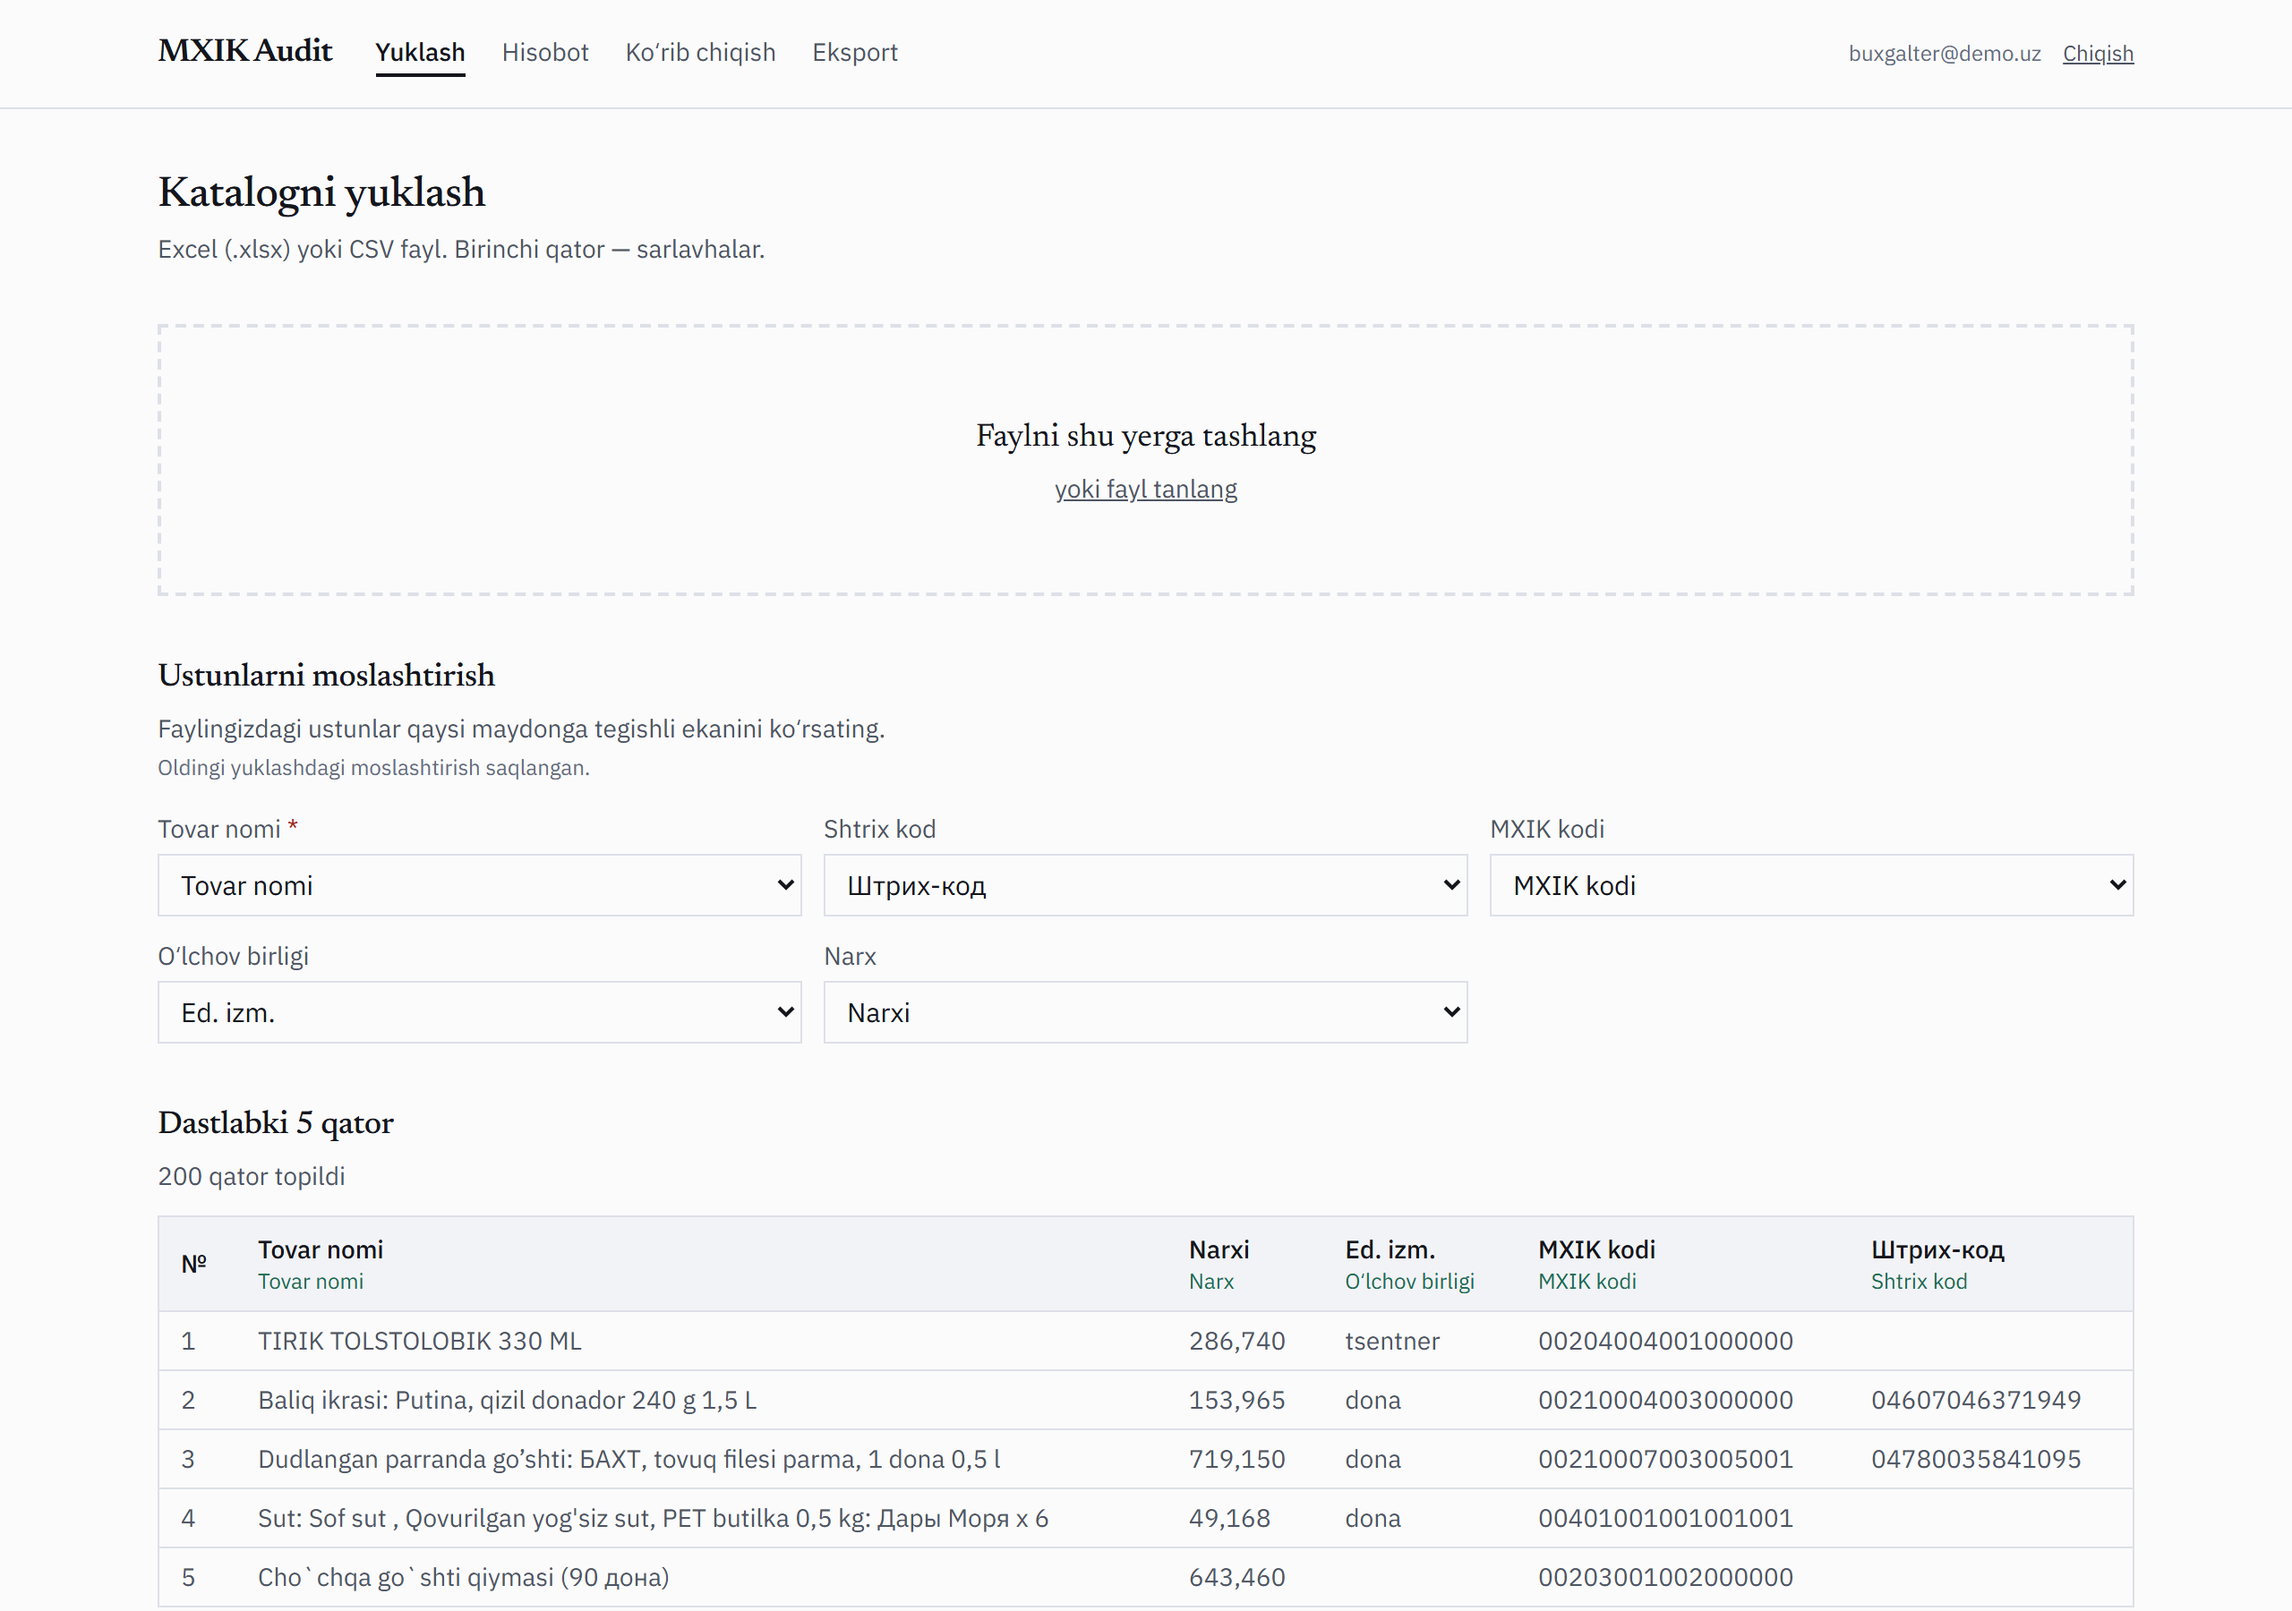
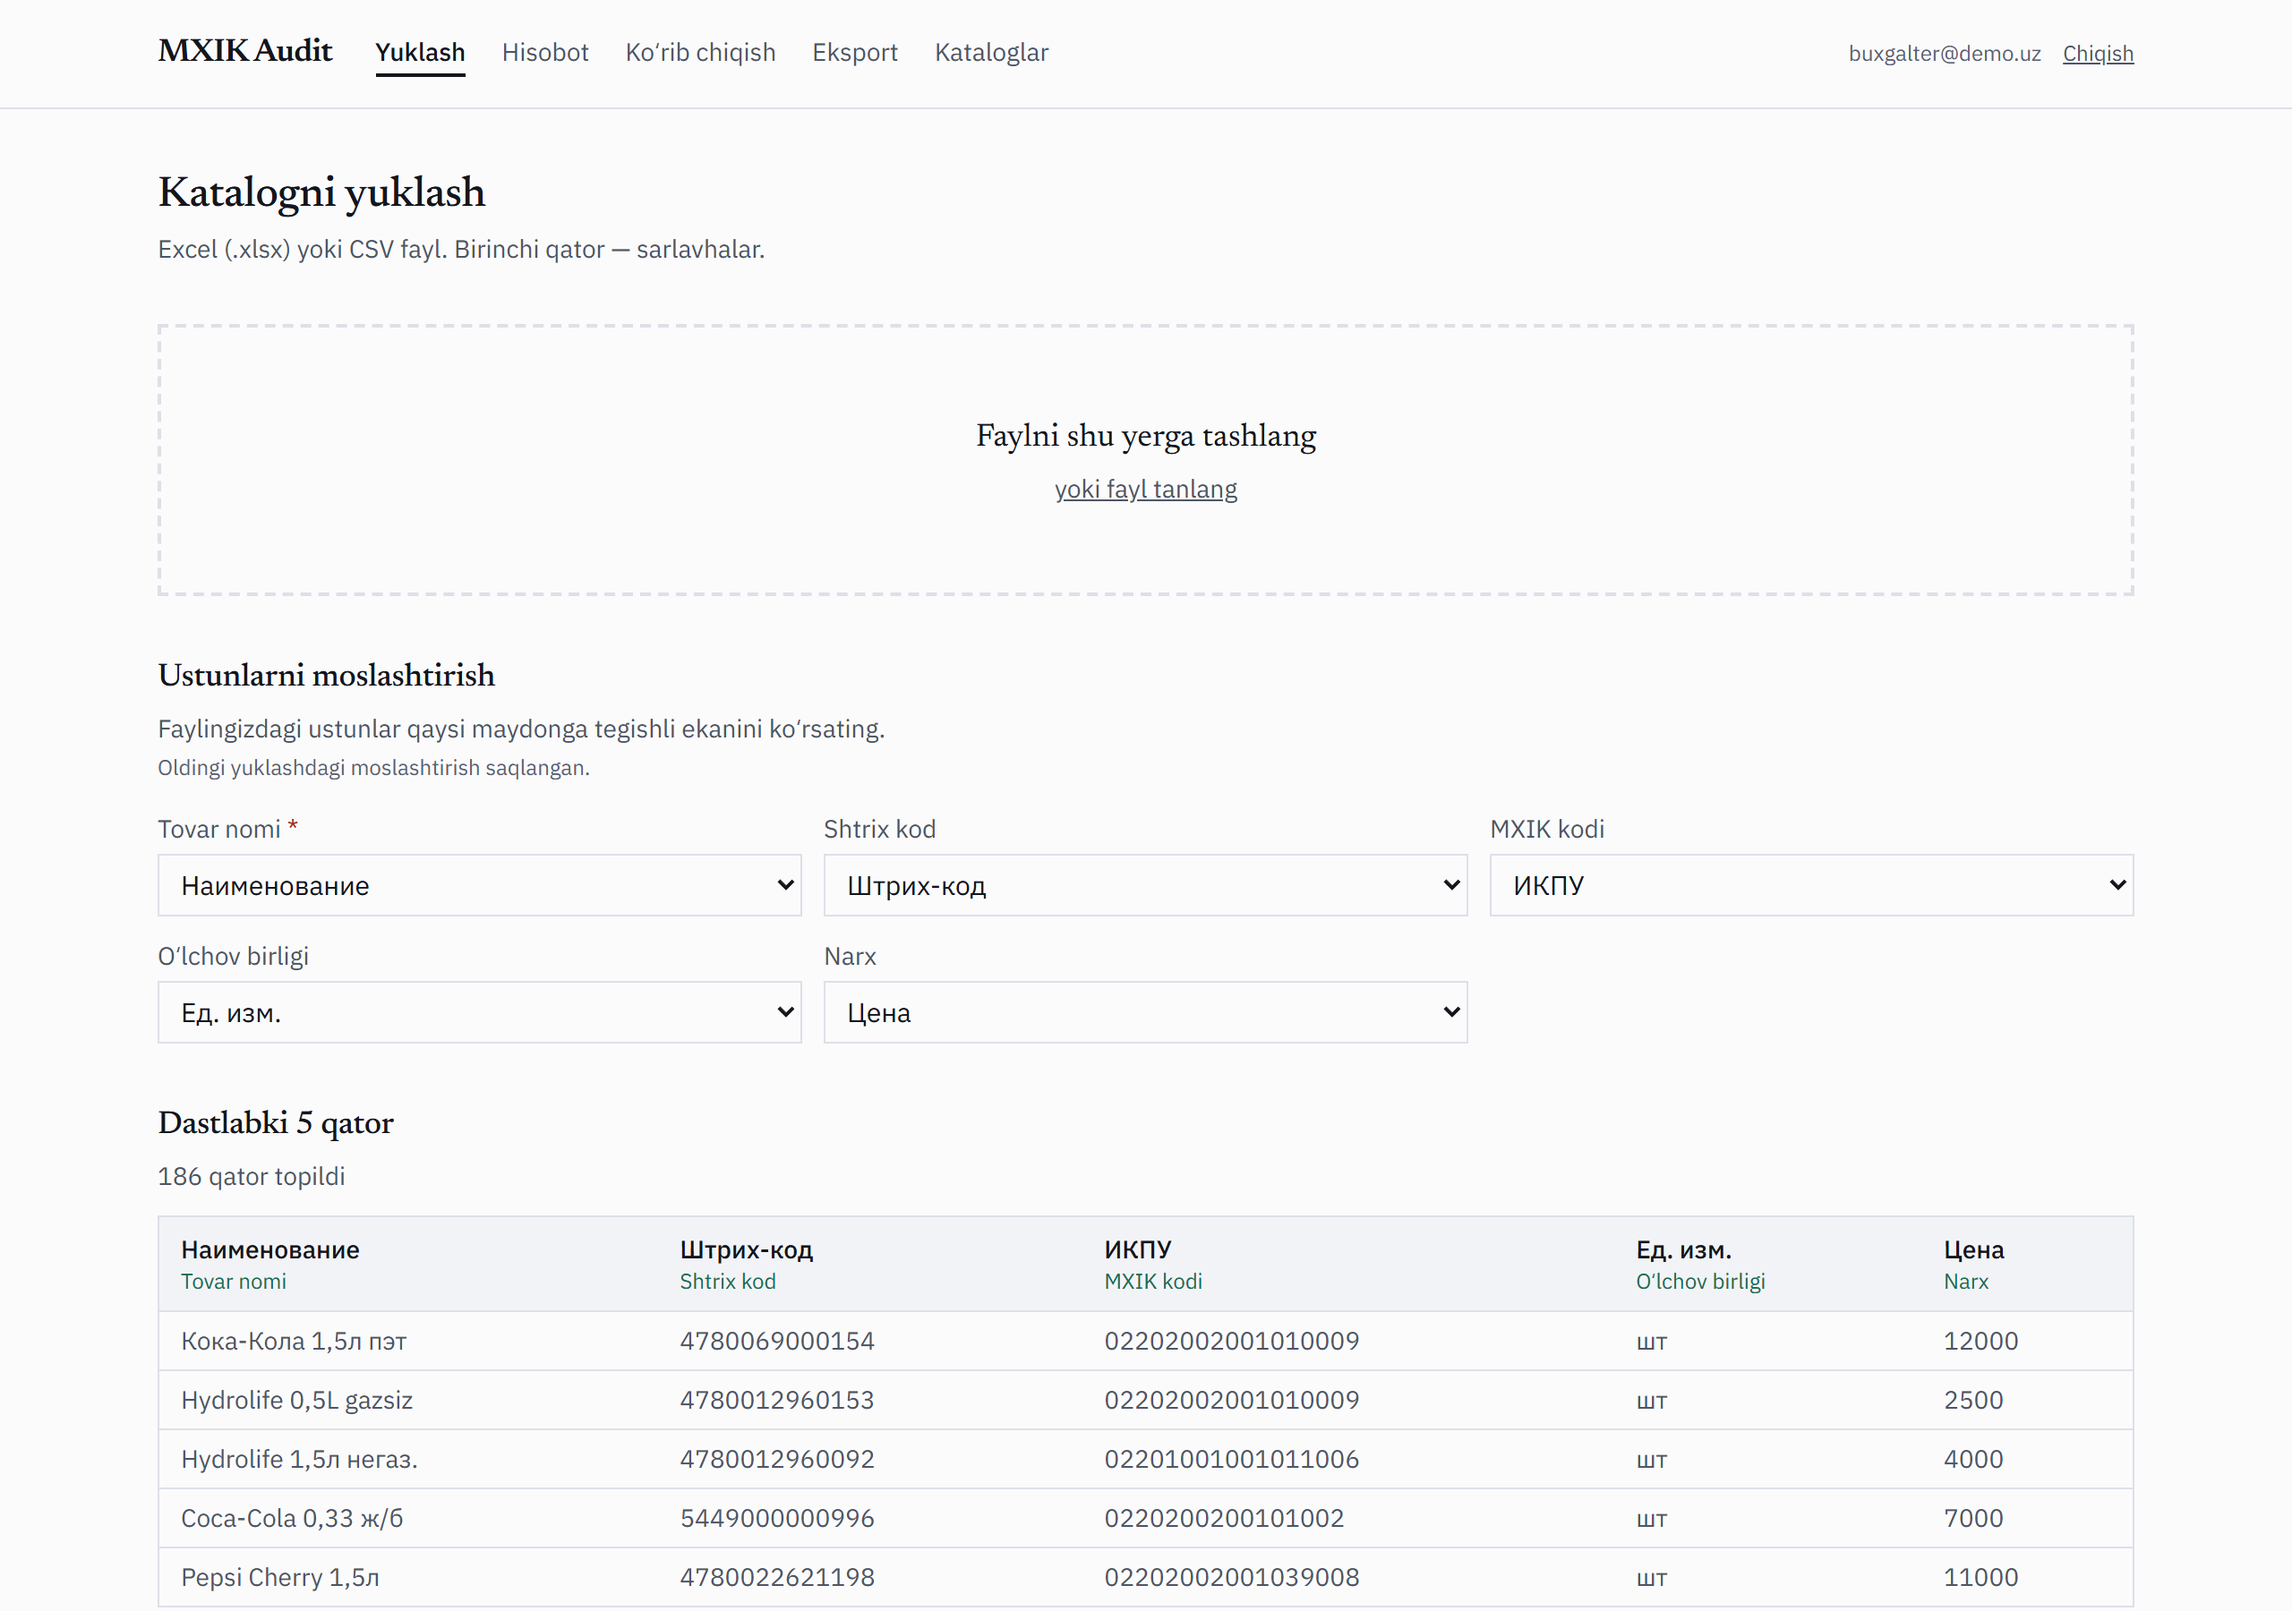
Screenshots: capture from a demo session, desktop and phone widths
- npm run capture now takes report, review, export and catalogue shots from
  a fresh /demo session, so nothing real is touched, at 1280 px and 375 px.
  The upload shot still signs in to the seeded org, and cleanup deletes
  only the catalogue that run created there (it used to delete the newest
  catalogues globally, which on a shared database could hit someone else's).
- CAPTURE_CHANNEL=msedge|chrome drives an installed browser instead of
  downloading Playwright's Chromium.
- public/screenshots refreshed from the current UI (demo catalogue).

diff --git a/scripts/capture-screenshots.ts b/scripts/capture-screenshots.ts
@@ -1,20 +1,20 @@
-// Captures real screenshots of the running app.
+// Captures real screenshots of the running app, at desktop and phone widths.
 //
-// These are no longer used on the landing page — that page now explains the
-// product with its own diagrams rather than pictures of the UI. They remain for
-// documentation, demos and design review, and the rule that produced them still
-// holds: this signs in to the actual dev server and captures the actual screens.
-// It never renders a mockup.
+// These are not used on the landing page — that page explains the product
+// with its own diagrams. They are for documentation, demos and design review,
+// and the rule that produced them still holds: this drives the actual app and
+// captures the actual screens. It never renders a mockup.
 //
-// Order matters. The upload shot has to run last, because previewing a file
-// creates a fresh catalogue row and /report and /review both read the newest
-// catalogue — capturing them afterwards would show an empty report. The extra
-// catalogue is deleted at the end.
+// Report, review, catalogue list and export come from a fresh /demo session,
+// so nothing real is touched (needs `npm run seed:demo`). The upload screen is
+// disabled in demo mode, so that one shot signs in to the seeded org
+// (`npm run seed`) and afterwards deletes only the catalogue it created there.
 //
-// Run: npm run dev (elsewhere), then npm run capture
+// Run: the app running elsewhere (npm run dev, or a production build), then
+//      npm run capture       (CAPTURE_BASE_URL defaults to http://localhost:3100)
 import '../src/lib/load-env.js';
 import { mkdir } from 'node:fs/promises';
-import { chromium, type Page } from 'playwright';
+import { chromium, type Browser, type Page } from 'playwright';
 import { db } from '../src/lib/db.js';
 
 const BASE = process.env['CAPTURE_BASE_URL'] ?? 'http://localhost:3100';
@@ -23,79 +23,94 @@ const PASSWORD = process.env['SEED_PASSWORD'] ?? 'demo12345';
 const OUT = 'public/screenshots';
 const SAMPLE = 'public/demo/namuna-katalog.xlsx';
 
-const WIDTH = 1280;
-
 type Shot = {
   file: string;
   path: string;
+  width: number;
   /** Viewport height, chosen per screen so there is no dead whitespace. */
   height: number;
   clipTo?: string;
-  prepare?: (page: Page) => Promise<void>;
 };
 
-const SHOTS: Shot[] = [
-  { file: 'report-headline.png', path: '/report', height: 700, clipTo: 'section' },
-  { file: 'step-2-report.png', path: '/report', height: 760 },
-  { file: 'step-3-review.png', path: '/review', height: 820 },
-  {
-    file: 'step-1-upload.png',
-    path: '/upload',
-    height: 900,
-    // Upload the sample so the shot shows column mapping and the row preview,
-    // which is the part of this screen worth showing.
-    prepare: async (page) => {
-      await page.setInputFiles('input[type="file"]', SAMPLE);
-      await page.waitForSelector('#map-name', { timeout: 60_000 });
-      await page.waitForTimeout(900);
-    },
-  },
+const DESKTOP = 1280;
+const PHONE = 375;
+
+const DEMO_SHOTS: Shot[] = [
+  { file: 'report-headline.png', path: '/report', width: DESKTOP, height: 700, clipTo: 'section' },
+  { file: 'step-2-report.png', path: '/report', width: DESKTOP, height: 760 },
+  { file: 'step-3-review.png', path: '/review', width: DESKTOP, height: 820 },
+  { file: 'step-4-export.png', path: '/export', width: DESKTOP, height: 640 },
+  { file: 'catalogs.png', path: '/catalogs', width: DESKTOP, height: 520 },
+  { file: 'report-mobile.png', path: '/report', width: PHONE, height: 812 },
+  { file: 'review-mobile.png', path: '/review', width: PHONE, height: 812 },
 ];
 
-const before = await db.catalog.count();
-
-const browser = await chromium.launch();
-const context = await browser.newContext({
-  viewport: { width: WIDTH, height: 900 },
-  deviceScaleFactor: 2,
-});
-const page = await context.newPage();
-
-console.log(`signing in at ${BASE} as ${EMAIL}`);
-await page.goto(`${BASE}/sign-in`, { waitUntil: 'networkidle' });
-await page.fill('input[name="email"]', EMAIL);
-await page.fill('input[name="password"]', PASSWORD);
-await page.click('button[type="submit"]');
-await page.waitForURL(/\/report/, { timeout: 60_000 });
-console.log('signed in');
-
-await mkdir(OUT, { recursive: true });
-
-for (const shot of SHOTS) {
-  await page.setViewportSize({ width: WIDTH, height: shot.height });
+async function capture(page: Page, shot: Shot): Promise<void> {
+  await page.setViewportSize({ width: shot.width, height: shot.height });
   await page.goto(`${BASE}${shot.path}`, { waitUntil: 'networkidle' });
-  // Next compiles a route on first hit; let slow ones settle.
+  // Next compiles a route on first hit in dev; let slow ones settle.
   await page.waitForTimeout(1000);
-  if (shot.prepare) await shot.prepare(page);
-
   const target = shot.clipTo ? page.locator(shot.clipTo).first() : page;
   await target.screenshot({ path: `${OUT}/${shot.file}` });
-  console.log(`  ${shot.file.padEnd(22)} ${shot.path}  ${WIDTH}x${shot.height}`);
+  console.log(`  ${shot.file.padEnd(22)} ${shot.path}  ${shot.width}x${shot.height}`);
 }
 
-await browser.close();
-
-// Remove the catalogue the upload preview created, so the demo keeps exactly one.
-const extras = await db.catalog.findMany({
-  orderBy: { createdAt: 'desc' },
-  take: Math.max(0, (await db.catalog.count()) - before),
-  select: { id: true, filename: true, status: true },
-});
-for (const extra of extras) {
-  await db.catalog.delete({ where: { id: extra.id } });
-  console.log(`\ncleaned up preview catalogue ${extra.filename} (${extra.status})`);
+async function demoShots(browser: Browser): Promise<void> {
+  const context = await browser.newContext({ deviceScaleFactor: 2 });
+  const page = await context.newPage();
+  console.log(`starting a demo session at ${BASE}/demo`);
+  await page.goto(`${BASE}/demo`, { waitUntil: 'networkidle' });
+  await page.click('button[type="submit"]');
+  await page.waitForURL(/\/report/, { timeout: 60_000 });
+  for (const shot of DEMO_SHOTS) await capture(page, shot);
+  await context.close();
 }
 
-console.log(`\nwrote ${SHOTS.length} screenshots to ${OUT}/`);
-console.log('Photographs of the running app, not mockups.');
-await db.$disconnect();
+async function uploadShot(browser: Browser): Promise<void> {
+  const user = await db.user.findUnique({ where: { email: EMAIL }, select: { orgId: true } });
+  if (!user) {
+    console.log(`  (skipping step-1-upload.png: no ${EMAIL}; run npm run seed)`);
+    return;
+  }
+  const before = new Set((await db.catalog.findMany({ where: { orgId: user.orgId }, select: { id: true } })).map((c) => c.id));
+
+  const context = await browser.newContext({ viewport: { width: DESKTOP, height: 900 }, deviceScaleFactor: 2 });
+  const page = await context.newPage();
+  await page.goto(`${BASE}/sign-in`, { waitUntil: 'networkidle' });
+  await page.fill('input[name="email"]', EMAIL);
+  await page.fill('input[name="password"]', PASSWORD);
+  await page.click('button[type="submit"]');
+  await page.waitForURL(/\/report/, { timeout: 60_000 });
+  await page.goto(`${BASE}/upload`, { waitUntil: 'networkidle' });
+  // Upload the sample so the shot shows column mapping and the row preview.
+  await page.setInputFiles('input[type="file"]', SAMPLE);
+  await page.waitForSelector('#map-name', { timeout: 60_000 });
+  await page.waitForTimeout(900);
+  await page.screenshot({ path: `${OUT}/step-1-upload.png` });
+  console.log(`  step-1-upload.png      /upload  ${DESKTOP}x900`);
+  await context.close();
+
+  // The preview stored a catalogue in this org; remove exactly that one.
+  const created = await db.catalog.findMany({
+    where: { orgId: user.orgId, id: { notIn: [...before] } },
+    select: { id: true, filename: true },
+  });
+  for (const c of created) {
+    await db.catalog.delete({ where: { id: c.id } });
+    console.log(`  cleaned up preview catalogue ${c.filename}`);
+  }
+}
+
+await mkdir(OUT, { recursive: true });
+// CAPTURE_CHANNEL=msedge (or chrome) drives an installed browser instead of
+// Playwright's own, which `npx playwright install chromium` would download.
+const channel = process.env['CAPTURE_CHANNEL'];
+const browser = await chromium.launch(channel ? { channel } : {});
+try {
+  await demoShots(browser);
+  await uploadShot(browser);
+} finally {
+  await browser.close();
+  await db.$disconnect();
+}
+console.log(`\nwrote screenshots to ${OUT}/ — photographs of the running app, not mockups.`);
